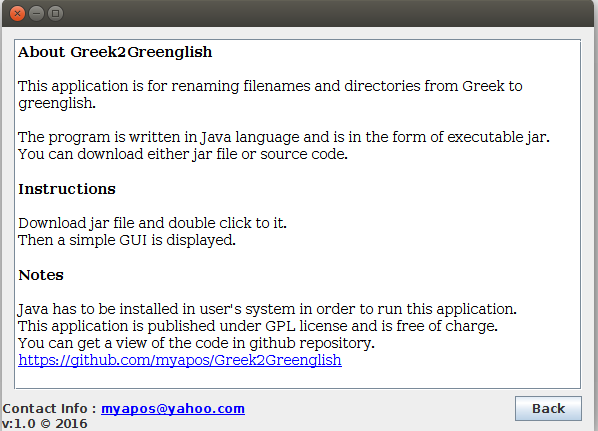
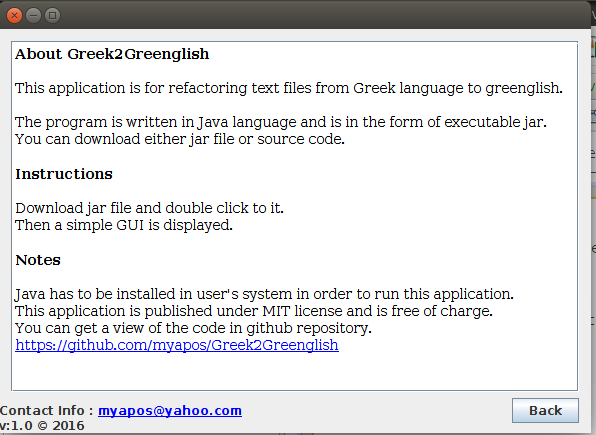
edited license text and screenshots

Changed region(s): [[0.0, 0.0, 1.0, 1.0]]

diff --git a/Greek2GreenglishUpdated/src/org/jdesktop/layout/AboutPanel.java b/Greek2GreenglishUpdated/src/org/jdesktop/layout/AboutPanel.java
@@ -56,7 +56,7 @@ public class AboutPanel extends javax.swing.JFrame {
 
         jEditorPane1.setEditable(false);
         jEditorPane1.setContentType("text/html"); // NOI18N
-        jEditorPane1.setText("<html> <head>  </head> <body> <strong> About Greek2Greenglish </strong> <br> <br> This application is for renaming filenames and directories from Greek to greenglish.<br> <br> The program is written in Java language and is in the form of executable jar.<br> You can download either jar file or source code.<br> <br>       <strong>Instructions</strong> <br> <br> Download jar file and double click to it.<br> Then a simple GUI is  displayed. <br> <br>       <strong>Notes</strong> <br> <br> Java has to be installed in user's system in order to run this application. <br> This application is published under GPL license and is free of charge.<br> You can get a view of the code in github repository. <br> <a href = \\\"https://github.com/myapos/Greek2Greenglish\\\">https://github.com/myapos/Greek2Greenglish</a>    </body> </html>");
+        jEditorPane1.setText("<html> <head>  </head> <body> <strong> About Greek2Greenglish </strong> <br> <br> This application is for refactoring text files from Greek language to greenglish.<br> <br> The program is written in Java language and is in the form of executable jar.<br> You can download either jar file or source code.<br> <br>       <strong>Instructions</strong> <br> <br> Download jar file and double click to it.<br> Then a simple GUI is  displayed. <br> <br>       <strong>Notes</strong> <br> <br> Java has to be installed in user's system in order to run this application. <br> This application is published under MIT license and is free of charge.<br> You can get a view of the code in github repository. <br> <a href = \\\"https://github.com/myapos/Greek2Greenglish\\\">https://github.com/myapos/Greek2Greenglish</a>    </body> </html>");
         jEditorPane1.setToolTipText("");
         jEditorPane1.addMouseListener(new java.awt.event.MouseAdapter() {
             public void mouseClicked(java.awt.event.MouseEvent evt) {
